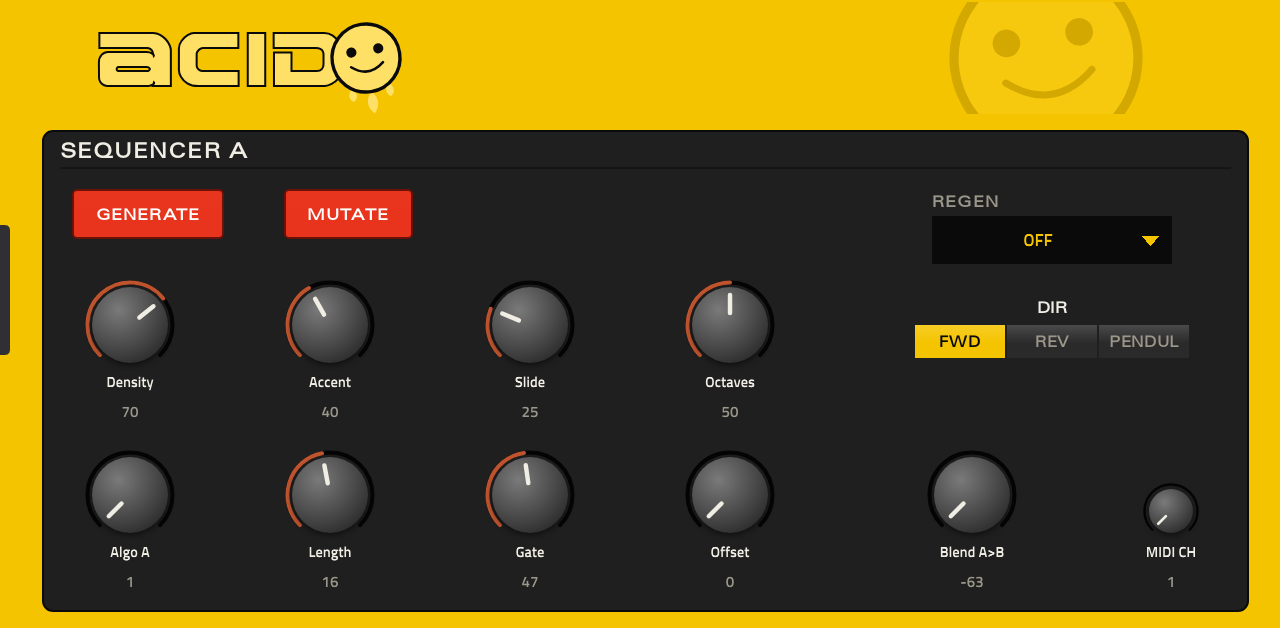
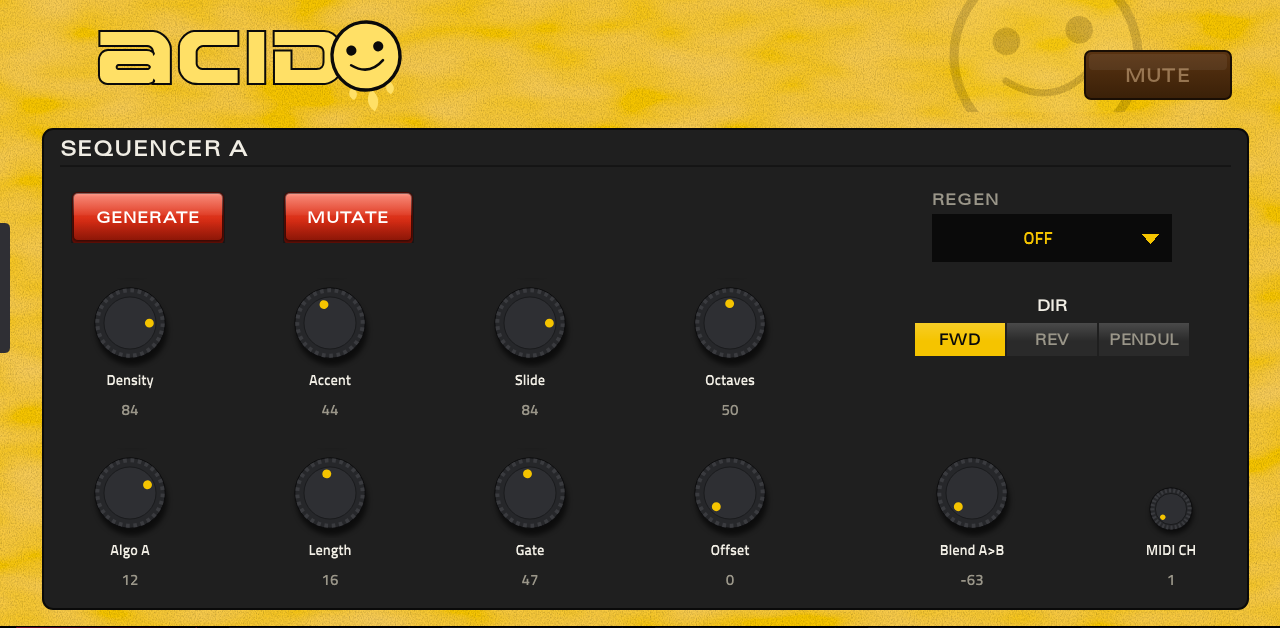
README and screenshots for 2.0.0 (six tabs, MOD, running light, symmetric note sliders)
Claude-Session: https://claude.ai/code/session_01EbcXxtF6eHSJ2NBs24n5zK

diff --git a/README.md b/README.md
@@ -21,11 +21,14 @@ no sound itself. It is a native VST2 plugin with a touchscreen skin and Q-Link c
    to hear it, set the MIDI input to that port and set **MIDI CH** to the channel that track listens on.
 3. Press **GENERATE** on SEQ A, and on SEQ B if you want a second line, then start the transport.
 
-The screen has three pages, and the Q-Links follow the page you are on.
+The screen has six tabs: SEQ A, EDIT A, SEQ B, EDIT B, MOD and GLOBAL. The Q-Links follow the tab you are on.
+
+![SEQ A](docs/img/seq-a.png)
+![EDIT A](docs/img/edit-a.png)
 
 ### SEQ A and SEQ B
 Each line is an independent sequencer of 2 to 32 steps. Both follow the MPC transport: every 16th is placed from the song position, so starting mid-song, looping or locating keeps Acid on the grid. The controls are the same
-on both pages.
+on both pages. Q-Links 1-8 turn the eight knobs in the order they appear (the grid left to right, top row then bottom), then GENERATE, MUTATE, BLEND, MIDI CH, REGEN and DIR.
 
 | Control | What it does |
 |---|---|
@@ -35,7 +38,7 @@ on both pages.
 | ACCENT | Chance that a note is accented (louder) |
 | SLIDE | Chance that a note slides into the next step, 303-style. A slide into a rest becomes a plain note |
 | OCTAVES | How many octaves above the root the pitches can span, 1 to 3 |
-| ALGO | 1 is the classic density/accent/slide model. Higher values blend in a second generator (non-repeating pitches, random-walk density, pyramid accents), up to 16 |
+| ALGO | 1 is the classic density/accent/slide model. Higher values blend in a second generator (non-repeating pitches, clustered runs of notes and rests, pyramid accents), up to 16 |
 | LENGTH | Steps before the pattern loops, 2 to 32. It takes effect at once. GENERATE to fill a longer pattern with new steps |
 | GATE | Note length as a fraction of a step. It is live, and held slides ignore it |
 | OFFSET (A) / TUNE OFFSET (B) | OFFSET rotates which step plays without rewriting the pattern. TUNE OFFSET sets B's interval relative to A, ±24 semitones (+7 is a fifth above, -12 an octave below) |
@@ -46,15 +49,21 @@ on both pages.
 
 DENSITY, ACCENT, SLIDE, OCTAVES, ALGO, LENGTH and SCALE reshape the playing pattern live from the current seed, so you can sweep them without losing its character. Returning a knob to the same value gives back the same pattern. Only GENERATE picks a new seed. Patterns saved with 1.0.x will sound different, because the same seed now maps to a different pattern.
 
-### SEQ A EDIT and SEQ B EDIT
-Each line has an edit page with 16 steps at a time. The STEPS 1-16 / STEPS 17-32 switch picks which bar of a longer pattern you see. Per step:
+### EDIT A and EDIT B
+Each line has an edit page, next to its SEQ page, with 16 steps at a time. A yellow marker above the step numbers follows the playing step (on the bar you are viewing). The 16 Q-Links turn the 16 NOTE sliders. The STEPS 1-16 / STEPS 17-32 switch picks which bar of a longer pattern you see. Per step:
 
 - **ON** switches the step between a note and a rest. A rest keeps its note, so switching it on brings the note back.
-- **NOTE** is a vertical slider in scale steps from the root. 0 is the root, negative goes up to one octave below it, and the top is as high as OCTAVES allows.
+- **NOTE** is a vertical slider in scale steps from the root. 0 is the root, in the middle, and the slider reaches two scale octaves (14 steps) above and below it.
 - **ACC** and **SLIDE** are independent, so a step can be both, as on a 303. GENERATE rolls them independently too.
 - **LOCK** marks a step as hand-edited. A locked step keeps its note, accent and slide when DENSITY, ACCENT, SLIDE, OCTAVES, ALGO, LENGTH or SCALE reshape the pattern. Editing a step locks it. Tap LOCK to hand it back to the knobs.
 
 Locks are saved with the project and cleared by GENERATE and REGEN.
+
+### MOD
+Two LFOs, each with two modulation slots. Per LFO: SHAPE (sine, triangle, saw, square or sample and hold), RATE (0.05 to 20 Hz) or, with SYNC on, a cycle of 1/4 note up to 16 bars locked to the song position. Each slot has a destination and an AMOUNT from -100 to +100. Destinations are DENSITY, ACCENT, SLIDE, OCTAVES, LENGTH, GATE and OFFSET on either line, plus BLEND.
+Your knob values are never changed, so the knobs and the saved project show your own settings. The pattern follows the modulation, so the edit pages move while an LFO is on density, accent, slide, octaves or length. Q-Links 1-8 are LFO 1 and 9-16 are LFO 2.
+
+![MOD](docs/img/mod.png)
 
 ### GLOBAL
 | Control | What it does |
